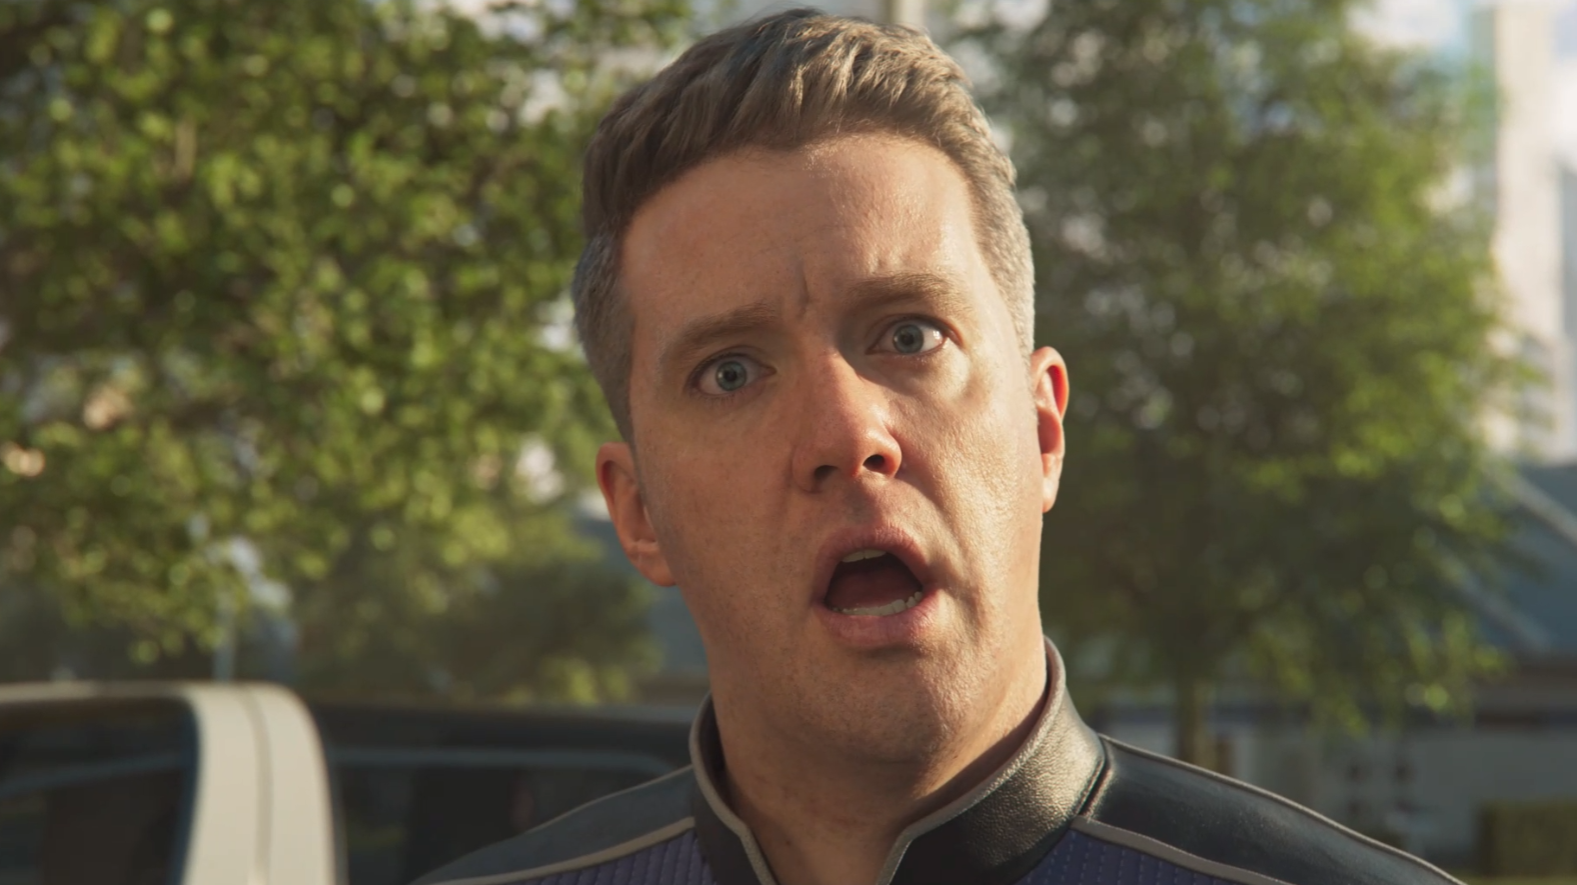
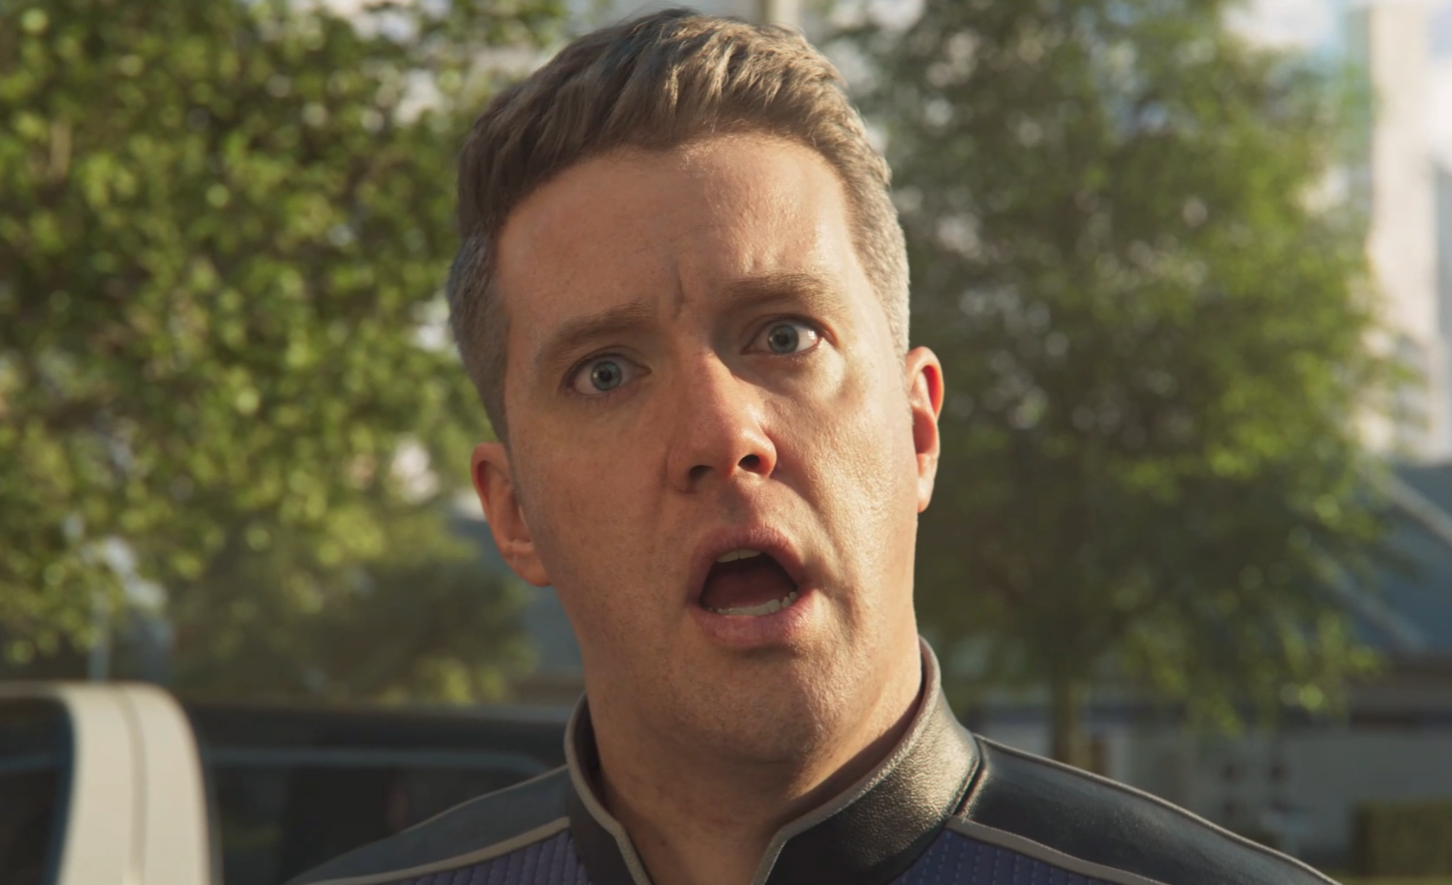
added image to background of Container. Need to figure out how to keep image centered.

diff --git a/src/components/NotFound.jsx b/src/components/NotFound.jsx
@@ -1,17 +1,23 @@
-import React from 'react'
+import React from "react";
 import Container from "react-bootstrap/Container";
 import { Link } from "react-router-dom";
 const NotFound = () => {
   return (
-    <Container>
+    // <Container style={{ backgroundImage: "url(/images/sweet_liberty_no.png)" }}>
+    <Container
+      style={{
+        backgroundImage: "url(/images/what_face_dark.png)",
+      }}
+    >
       <div className="d-flex align-items-center flex-column vh-85">
         <p className="display-6 mt-3">Not Found</p>
         <p>The page you are trying to visit does not exist.</p>
-        <p><Link to="/">Click here</Link> to return to the home page.</p>
-        
+        <p>
+          <Link to="/">Click here</Link> to return to the home page.
+        </p>
       </div>
     </Container>
   );
-}
+};
 
-export default NotFound
+export default NotFound;

diff --git a/src/components/Randomizer.jsx b/src/components/Randomizer.jsx
@@ -1,4 +1,5 @@
 import React from 'react'
+import Container from "react-bootstrap/Container";
 
 const Randomizer = () => {
   return (
